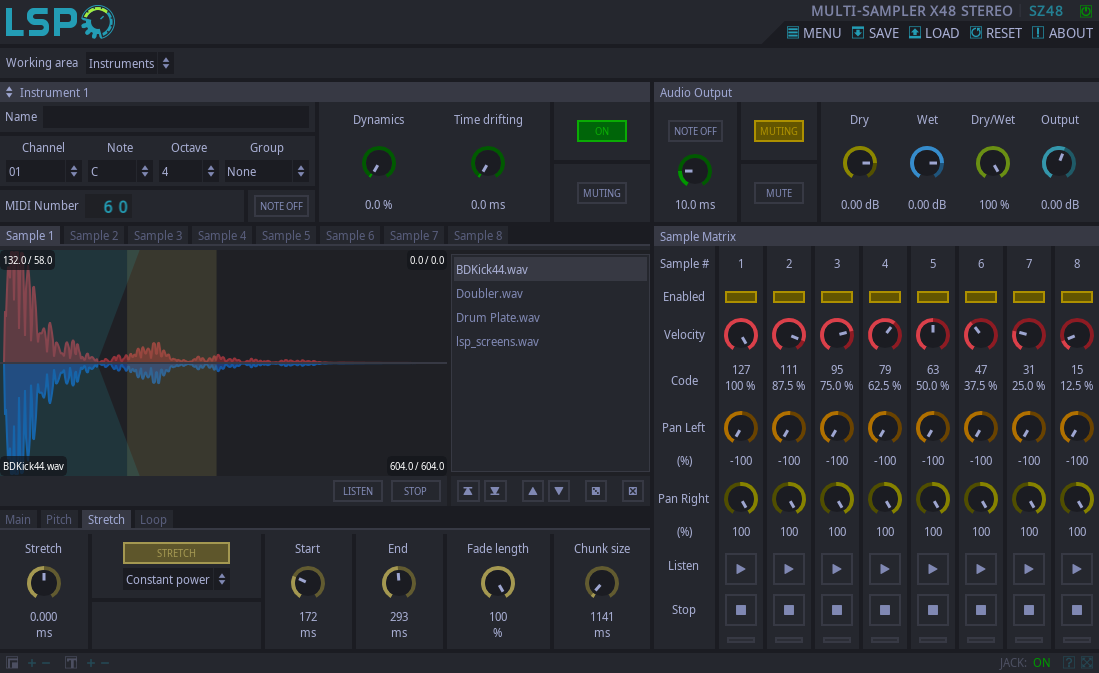
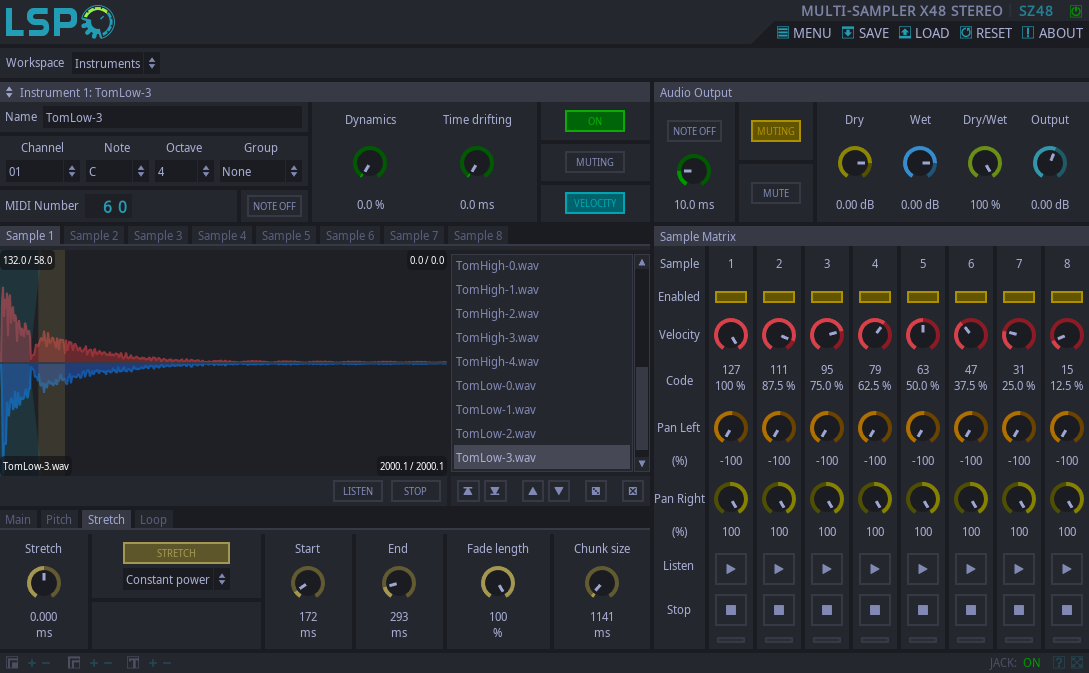
Updated site

diff --git a/pages/manuals/plugins/multisampler.php b/pages/manuals/plugins/multisampler.php
@@ -96,7 +96,7 @@ for path substitutions. For example, the following value:</p>
 <p><b>Controls:</b></p>
 <ul>
 	<li><b>Bypass</b> - hot bypass switch, when turned on (led indicator is shining), the plugin does not affect the input signal.</li>
-	<li><b>Working area</b> - combo box that allows to switch between instrument setup and instrument mixer.</li>
+	<li><b>Workspace</b> - combo box that allows to switch between instrument setup and instrument mixer.</li>
 </ul>
 
 <p><b>'Instrument mixer' section:</b></p>
@@ -108,7 +108,7 @@ for path substitutions. For example, the following value:</p>
 	<?php } ?>
 	<li><b>Pan Left</b> - the panorama of the left channel of the corresponding instrument.</li>
 	<li><b>Pan Right</b> - the panorama of the right channel of the corresponding instrument.</li>
-	<li><b>MIDI #</b> - the MIDI number of the note associated with the corresponding instrument. Allows to change the number with mouse scroll or mouse double click.</li>
+	<li><b>MIDI Number</b> - the MIDI number of the note associated with the corresponding instrument. Allows to change the number with mouse scroll or mouse double click.</li>
 	<li><b>Note on</b> - indicates that the corresponding instrument has triggered the MIDI Note On event.</li>
 	<li><b>Listen</b> - forces the corresponding instrument to trigger the Note On event.</li>
 </ul>
@@ -117,11 +117,9 @@ for path substitutions. For example, the following value:</p>
 <ul>
 	<li><b>Channel</b> - the MIDI channel to trigger notes by the selected instrument or all channels.</li>
 	<li><b>Note</b> - the note and the octave of the note to trigger for the selected instrument.</li>
-	<li><b>MIDI #</b> - the MIDI number of the note for the selected instrument.</li>
+	<li><b>MIDI Number</b> - the MIDI number of the note for the selected instrument.</li>
 	<li><b>Group</b> - The group assigned to the instrument. The sample playback will be stopped for all
 	instruments in the same group except the one's that has triggered the Note On event.</li>
-	<li><b>Muting</b> - when enabled, turns off sample playback for selected instrument 
-	when the Channel Control MIDI message is received.</li>
 	<li><b>Note off</b> - when enabled, turns off sample playback for selected channel when the Note Off
 	MIDI message is received. The sample fade-out time can be controlled by the corresponding knob. The behaviour is
 	different, depending on the	loop settings and muting settings. If the loop is enabled for the sample, then
@@ -129,6 +127,10 @@ for path substitutions. For example, the following value:</p>
 	If the instrument muting is set, then it will fade-out the sample.</li>
 	<li><b>Dynamics</b> - allows to randomize the output gain of the selected instrument.</li>
 	<li><b>Time drifting</b> - allows to randomize the time delay between the MIDI Note On event and the start of the sample's playback for the selected instrument.</li>
+	<li><b>On</b> - enables the instrument.</li>
+	<li><b>Muting</b> - when enabled, turns off sample playback for selected instrument when the Channel Control MIDI message is received.</li>
+	<li><b>Velocity</b> - enables volume control of the sample by the velocity value of the MIDI note.</li>
+	
 </ul>
 <p><b>'Samples' section:</b></p>
 <ul>

diff --git a/pages/news.php b/pages/news.php
@@ -1,5 +1,33 @@
 <h1>NEWS</h1>
 
+<h3>2024-03-01</h3>
+
+<p>New LSP Plugins release, now with accelerated UI!</p>
+<p>For many years LSP Plugins have had serious performance issues when drawing UI with Cairo graphics library.</p>
+<p>Now we introduce new graphics backend that uses OpenGL graphisc for rendering widgets. We still keep possibility to
+easily switch back to Cairo if you meet some problems using OpenGL backend.</p>
+
+<ul>
+<li>Implemented default OpenGL rendering engine for the UI for X11-based operating systems. The rendering engine can be switched back to Cairo by setting LSP_WS_LIB_GLXSURFACE=off environment variable.</li>
+<li>Added possibility to use custom scaling for each plugin bundle.</li>
+<li>Added highlighting of active item in file navigator nearby sample preview.</li>
+<li>Several optimizations related to scaling widgets in the graphical toolkit library.</li>
+<li>Updated several core libraries for better support of MacOS.</li>
+<li>Additional AVX-512 optimizations of code DSP library.</li>
+<li>Several changes in Sampler and Multisampler plugin series:</li>
+<ul>
+  <li>Implemented possibility to Drag&Drop drumkits, SFZ files and LSPC files directly to the plugin's window for import purpose.</li>
+  <li>Muting button does not disable the listen button.</li>
+  <li>Added 'velocity' button that allows to disable or enable the volume control of a sample by the velocity value of the MIDI note.</li>
+  <li>Added automatic instrument name assign same to current sample file name if UI behavior option 'Take instrument name from file' is enabled and the name of instrument is empty or similar to currently selected sample file.</li>
+  <li>Updated several labels in the UI.</li>
+</ul>
+<li>Added workaround for Renoise host related to latency reporting by VST2 and VST3 plugins on state load.</li>
+<li>Fixed unnecessary output parameter cleanup when importing configuration that caused several bugs when importing plugin state from file.</li>
+<li>Fixed regression related to impossibility of setting proper values for in several parameters in the VST3 plugin format.</li>
+<li>Fixed some typos in UI.</li>
+</ul>
+
 <h3>2024-12-21</h3>
 
 <p>LSP Plugins 9th anniversary release 1.2.20 is available!</p>

diff --git a/pages/manuals/plugins/trigger.php b/pages/manuals/plugins/trigger.php
@@ -15,13 +15,13 @@ There are up to eight samples available to play for different note velocities.</
 <p><b>Controls:</b></p>
 <ul>
 	<li><b>Bypass</b> - hot bypass switch, when turned on (led indicator is shining), the plugin does not affect the input signal.</li>
-	<li><b>Working area</b> - this control allows to switch the UI from trigger mode to instrument mode.</li>
+	<li><b>Workspace</b> - this control allows to switch the UI between trigger mode and instrument configuration mode.</li>
 	<li><b>Pause</b> - pauses any updates of the trigger graph.</li>
 	<li><b>Clear</b> - clears all graphs.</li>
 <?php if ($midi) {?>
 	<li><b>Channel</b> - the MIDI channel to use for MIDI note.</li>
 	<li><b>Note</b> - the note and the octave of the MIDI note generated by the trigger.</li>
-	<li><b>MIDI #</b> - the MIDI number of the note. Allows to change the number with mouse scroll or mouse double click.</li>
+	<li><b>MIDI number</b> - the MIDI number of the note. Allows to change the number with mouse scroll or mouse double click.</li>
 <?php } ?>
 	<li><b>In<?= $sm ?></b> - enables drawing of input signal graph and corresponding level meter.</li>
 	<li><b>SC</b> - enables drawing of sidechain graph and corresponding level meter.</li>

diff --git a/pages/manuals/plugins/sampler.php b/pages/manuals/plugins/sampler.php
@@ -18,6 +18,7 @@ There are up to eight samples available to play for different note velocities.</
 	<li><b>Channel</b> - the MIDI channel to trigger notes or all channels.</li>
 	<li><b>Note</b> - the note and the octave of the note to trigger.</li>
 	<li><b>Muting</b> - when enabled, turns off any playback when the Channel Control MIDI message is received.</li>
+	<li><b>Velocity</b> - enables volume control of the sample by the velocity value of the MIDI note.</li>
 	<li><b>Note off</b> - when enabled, turns off sample playback for selected channel when the Note Off
 	MIDI message is received. The sample fade-out time can be controlled by the corresponding knob. The behaviour is
 	different, depending on the	loop settings and muting settings. If the loop is enabled for the sample, then

diff --git a/pages/manuals/plugins/referencer.php b/pages/manuals/plugins/referencer.php
@@ -248,7 +248,7 @@ compression applied to the Mix and Reference signals. The lower PRS value is, th
 	</ul>
 </ul>
 
-<p>The <b>Stereo</b> tab allows to perform some stereo analysis of the signal</p>:
+<p>The <b>Stereo</b> tab allows to perform some stereo analysis of the signal:</p>
 <ul>
 	<li><b>Mode</b> - the mode of the graph displayed on the left side of the tab:</li>
 	<ul>
